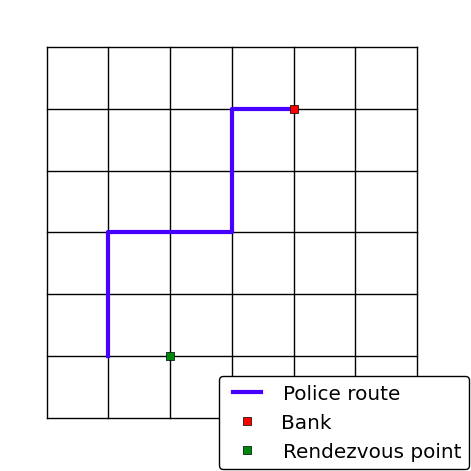
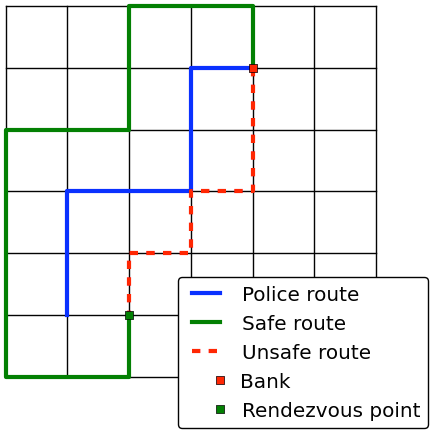
Getaway: Improved problem text and illustration
Made a more clarifying illustration and text.
Added one more sample case.

Changed region(s): [[0.0, 0.0, 1.0, 1.0]]

diff --git a/getaway/make_illustration.py b/getaway/make_illustration.py
@@ -1,0 +1,35 @@
+from sys import stdin
+from time import sleep
+from scitools.std import *
+
+def plot_grid(m, n):
+    # horizontal lines
+    for i in xrange(m):
+        plot([0, n-1], [i, i], 'k', hidden='on', daspect=[1,1,1])
+
+    # vertical lines
+    for j in xrange(n):
+        plot([j, j], [0, m-1], 'k', hidden='on', daspect=[1,1,1])
+
+m, n = map(int, stdin.readline().split())
+bi, bj, ri, rj = map(int, stdin.readline().split())
+p = [map(int, line.split()) for line in stdin]
+pi, pj = zip(*p)
+
+# safe route
+si, sj = zip(*((5, 4), (6, 4), (6, 3), (6, 2), (5, 2), (4, 2), (4, 1), (4, 0),
+    (3, 0), (2, 0), (1, 0), (0, 0), (0, 1), (0, 2), (1, 2)))
+
+# unsafe route
+ui, uj = zip(*((5, 4), (4, 4), (3, 4), (3, 3), (2, 3), (2, 2), (1, 2)))
+
+figure()
+hold('on')
+axis([-1, n, -1, m])
+plot_grid(m, n)
+plot(pj, m - 1 - array(pi), 'b-3', legend='Police route')
+plot(sj, si, 'g-3', legend='Safe route')
+plot(uj, ui, 'r--3', legend='Unsafe route')
+plot([bj], [m - 1 - bi], 'rs', legend='Bank')
+plot([rj], [m - 1 - ri], 'gs', legend='Rendezvous point')
+hardcopy('getaway.png')

diff --git a/getaway/README.md b/getaway/README.md
@@ -3,9 +3,11 @@ Frank, a professional getaway driver, is hired to safely transport some robbers 
 
 Frank doesn't know when the police leave the police station (sometimes they are busy when the alarm goes off), nor how fast they are going. So the only way to stay entirely safe is to avoid their route all together. In practice this means that Frank cannot drive via any intersection that the police drive via (except the one at the bank, of course). This way he is sure he'll never get caught.
 
-In order to put a fair price on the job, Frank needs to now how far he has to go in order to make a safe getaway. Make a program that outputs the length (in meters) of the shortest possible route Frank can take from the bank to the rendezvous point, while still being safe. If no such route exists Frank should back away from the deal.
+An example of this can be seen in the image below, where the green (and long) route is safe. The red route however, is unsafe because it goes via an intersection on the police route.
 
 ![](../images/getaway.png)
+
+In order to put a fair price on the job, Frank needs to now how far he has to go in order to make a safe getaway. Make a program that outputs the length (in meters) of the shortest possible route Frank can take from the bank to the rendezvous point, while still being safe. If no such route exists Frank should back away from the deal.
 
 The streets in city Frank lives in are layed out as a grid. It consists of _n_ streets going west-east and _m_ streets going north-south. The streets have an even spacing of `10m`, so the distance from an intersection to any of its neighboring intersection is always `10m`.
 
@@ -21,12 +23,12 @@ The rendesvous point is at instersection [_r<sub>i</sub>_, _r<sub>j</sub>_]
 ## Input
 The first line of input contains two integers _n_ and _m_, the size of the city.  
 The second line contains four integers _b<sub>i</sub>_, _b<sub>j</sub>_, _r<sub>i</sub>_ and _r<sub>j</sub>_. This is the location of the bank and the rendezvous point, respectively.  
-Then follows _k_ lines each containing two integers _p<sup>l</sup><sub>i</sub>_ and _p<sup>l</sup><sub>j</sub>_, describing the route that the police are taking.
+Then follows _k_ lines describing the route that the police are taking. Each line contains two integers _p<sup>l</sup><sub>i</sub>_ and _p<sup>l</sup><sub>j</sub>_, the coordinates of the _l_-th intersection on the route of the police.
 
 ## Output
 Output the shortest possible distance Frank has to drive from the bank to the rendezvous point without getting caught. If no such route exists, simply output `no deal`.
 
-## Sample input
+## Sample input 1
 ```
 7 7
 1 4 5 2
@@ -39,7 +41,20 @@ Output the shortest possible distance Frank has to drive from the bank to the re
 1 3
 1 4
 ```
-## Sample output
+## Sample output 1
 ```
 60
+```
+## Sample input 2
+```
+3 3
+0 0 2 2
+1 0
+1 1
+0 1
+0 0
+```
+## Sample output 2
+```
+no deal
 ```
